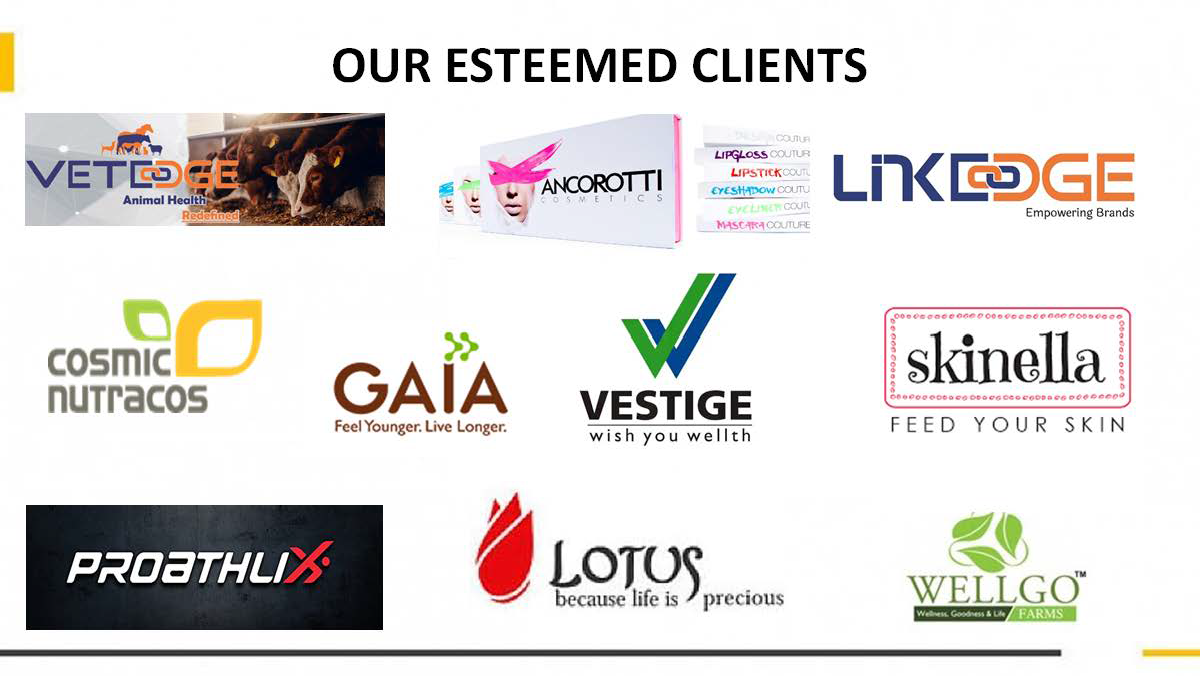
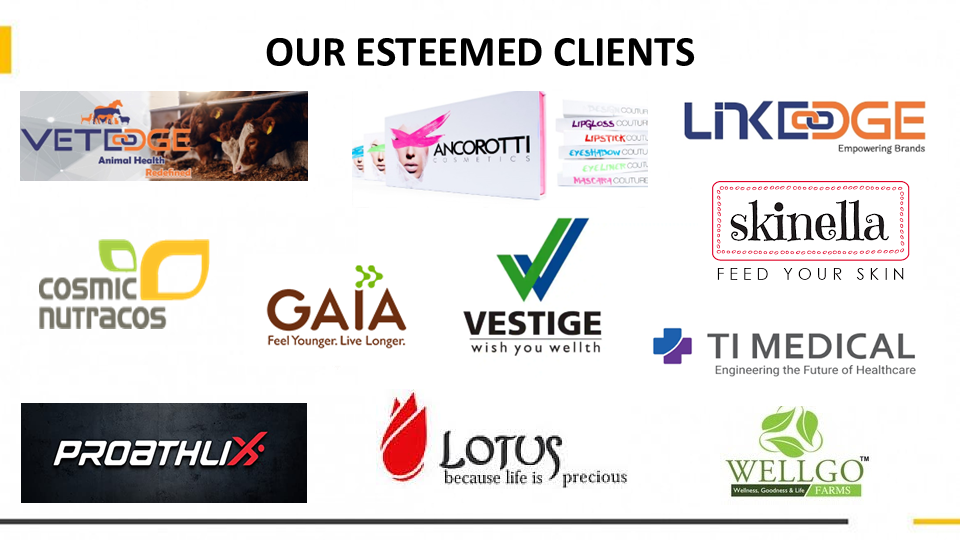
**Client image replaced, background now black** - The "Our Esteemed Clients" section on Home now shows your updated image — the one with VetEdge, LikEdge, Ancorotti, Cosmic Nutracos, Gaia, Vestige, Skinella, TI Medical, Proathlix, Lotus and WellGo Farms - The panel behind the image is now black, so 
Emergent-Commit-Key: 658ace482a1dc06120adcbb212e5756824bdad1ddef66b4d4d7e5f8db35b85c1

diff --git a/frontend/src/pages/Home.js b/frontend/src/pages/Home.js
@@ -441,10 +441,10 @@ function Clients() {
           </MaskLine>
         </h2>
         <Reveal delay={0.2}>
-          <div data-testid="clients-panel" className="mt-12 rounded-2xl border border-line bg-bone p-6 sm:p-12">
+          <div data-testid="clients-panel" className="mt-12 rounded-2xl border border-line bg-black p-6 sm:p-12">
             <img
               src="/brand/clients.png"
-              alt="CoverEdge esteemed clients — VetEdge, LikEdge, Cosmic Nutracos, Gaia, Vestige, Skinella, Proathlix, Lotus, WellGo Farms"
+              alt="CoverEdge esteemed clients — VetEdge, LikEdge, Cosmic Nutracos, Gaia, Vestige, Skinella, TI Medical, Proathlix, Lotus, WellGo Farms"
               data-testid="clients-image"
               className="w-full"
             />
